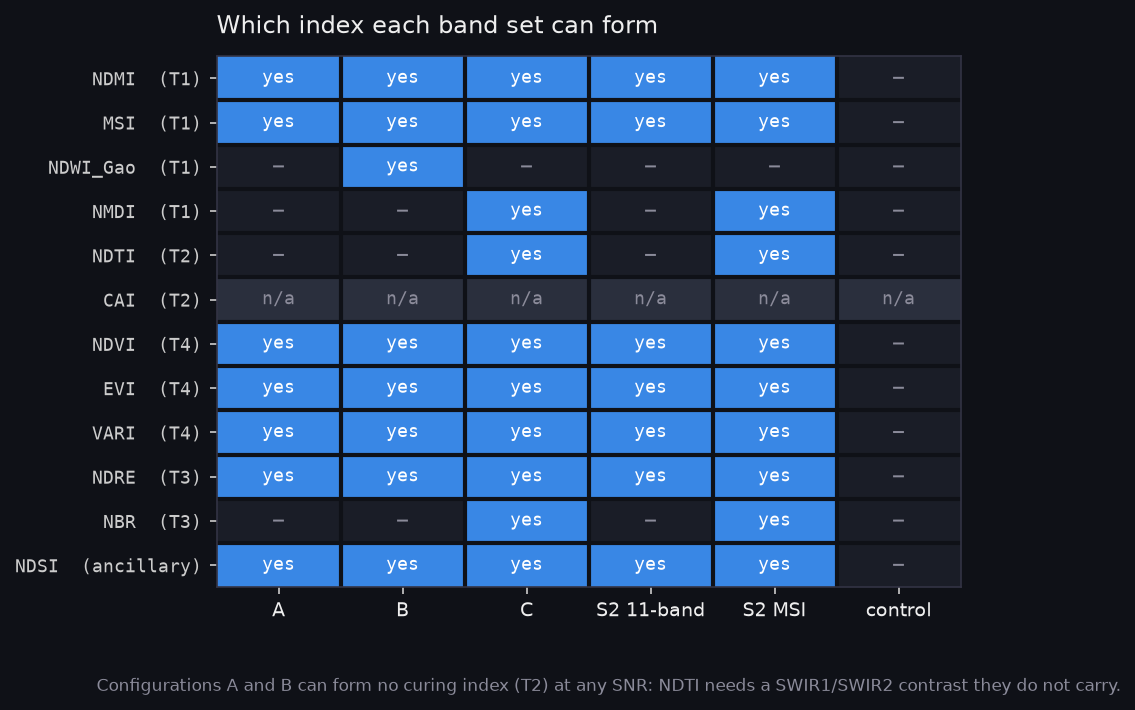
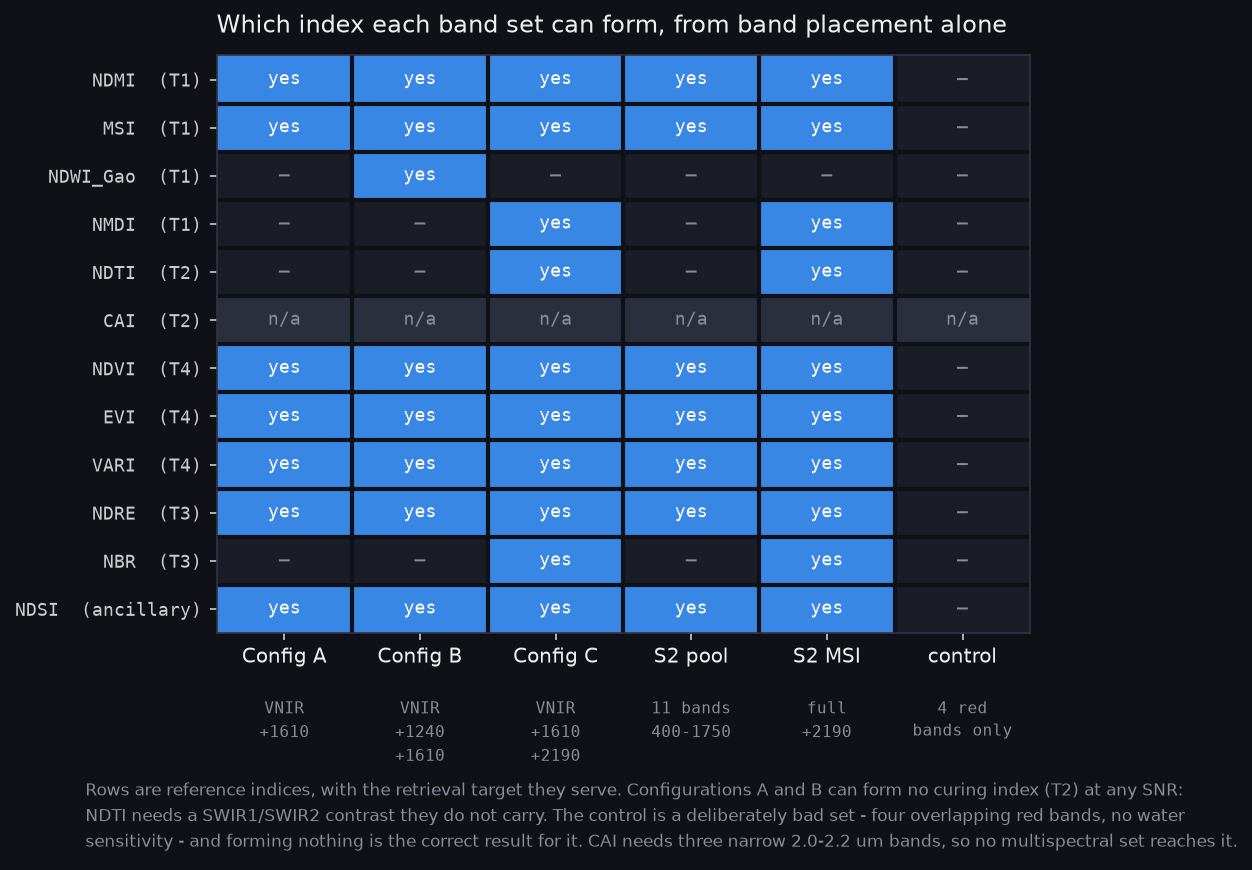
Make two figures legible without the surrounding text
The feasibility columns were bare letters -- "A", "B", "C", "control" -- which
carry no information about the thing the figure is actually comparing. Each
column now names the set AND its SWIR content, since that is the only axis the
three SAFARI configurations differ on: A is VNIR+1610, B adds 1240, C swaps to
1610+2190. The caption also says what the control IS, because "control forms
nothing" reads as a broken row rather than the correct result for a
deliberately bad set of four overlapping red bands.

The cut-points figure showed two dumbbells against an unlabelled axis and
assumed the reader already knew why two thresholds existed. Rewritten to show
the actual question: the derivation emits a CONTINUOUS percent conifer, the
published layer reports DISCRETE classes, and comparing them means cutting the
continuum into deciduous/mixedwood/conifer -- which takes two boundaries. The
zones are now drawn and labelled in place, the two rows are annotated with what
each is, and arrows mark that both cuts move left because the derivation reads
more conifer than the layer and the boundaries drop to compensate.

It also states what the figure does NOT mean: the thresholds affect reporting
only, since the model consumes continuous percent conifer.

Changed region(s): [[0.0, 0.0, 0.9868, 0.9915], [0.8018, 0.062, 0.8326, 0.093]]

diff --git a/scripts/make_result_figures.py b/scripts/make_result_figures.py
@@ -184,9 +184,19 @@ def fig_band_pool():
 
 SETS = ["config_a", "config_b", "config_c",
         "sentinel2_11band_candidates", "sentinel2_msi", "negative_control"]
-SHORT = {"config_a": "A", "config_b": "B", "config_c": "C",
-         "sentinel2_11band_candidates": "S2 11-band",
-         "sentinel2_msi": "S2 MSI", "negative_control": "control"}
+
+# "A", "B", "C" mean nothing without the bands behind them, and the whole
+# point of the figure is which SWIR content a configuration carries. Each
+# column header therefore names the set AND its SWIR bands, since that is the
+# only axis the three SAFARI configurations differ on.
+COLHEAD = {
+    "config_a":                    ("Config A", "VNIR|+1610"),
+    "config_b":                    ("Config B", "VNIR|+1240|+1610"),
+    "config_c":                    ("Config C", "VNIR|+1610|+2190"),
+    "sentinel2_11band_candidates": ("S2 pool", "11 bands|400-1750"),
+    "sentinel2_msi":               ("S2 MSI", "full|+2190"),
+    "negative_control":            ("control", "4 red|bands only"),
+}
 
 
 def fig_feasibility():
@@ -205,8 +215,8 @@ def fig_feasibility():
             res = resolve_index(idx, band_sets[key])
             grid[r, c] = 1.0 if res.feasible else (0.5 if res.hyperspectral_only else 0.0)
 
-    fig, ax = plt.subplots(figsize=(6.4, 4.6), facecolor=FIG_BG)
-    _axes(ax, "Which index each band set can form")
+    fig, ax = plt.subplots(figsize=(7.0, 5.0), facecolor=FIG_BG)
+    _axes(ax, "Which index each band set can form, from band placement alone")
     ax.grid(False)
 
     from matplotlib.colors import ListedColormap
@@ -222,7 +232,15 @@ def fig_feasibility():
                     family="monospace")
 
     ax.set_xticks(range(len(SETS)))
-    ax.set_xticklabels([SHORT[s] for s in SETS], color=INK_BRIGHT, fontsize=9)
+    ax.set_xticklabels([COLHEAD[s][0] for s in SETS], color=INK_BRIGHT, fontsize=9.5)
+    # Band content BELOW the tick labels. Drawn in data-x / axes-y with a
+    # pixel offset: in data coordinates it landed on top of the tick label.
+    for c, key in enumerate(SETS):
+        ax.annotate(chr(10).join(COLHEAD[key][1].split("|")),
+                    xy=(c, 0), xycoords=("data", "axes fraction"),
+                    xytext=(0, -30), textcoords="offset points",
+                    ha="center", va="top", color=MUTED, fontsize=7.6,
+                    family="monospace", linespacing=1.5, annotation_clip=False)
     ax.set_yticks(range(len(names)))
     ax.set_yticklabels([f"{n}  ({i.target})" for n, i in zip(names, cat.indices)],
                        color=INK, fontsize=8.5, family="monospace")
@@ -231,10 +249,14 @@ def fig_feasibility():
     ax.grid(which="minor", color=FIG_BG, lw=2)
     ax.tick_params(which="minor", length=0)
 
-    fig.text(0.0, -0.04,
-             "Configurations A and B can form no curing index (T2) at any SNR: NDTI needs a "
-             "SWIR1/SWIR2 contrast they do not carry.",
-             color=MUTED, fontsize=8.2, ha="left")
+    fig.text(0.0, -0.175, chr(10).join([
+        "Rows are reference indices, with the retrieval target they serve. "
+        "Configurations A and B can form no curing index (T2) at any SNR:",
+        "NDTI needs a SWIR1/SWIR2 contrast they do not carry. The control is a "
+        "deliberately bad set - four overlapping red bands, no water",
+        "sensitivity - and forming nothing is the correct result for it. "
+        "CAI needs three narrow 2.0-2.2 um bands, so no multispectral set reaches it.",
+    ]), color=MUTED, fontsize=8.2, ha="left", linespacing=1.5)
     return _save(fig, "index_feasibility.png")
 
 
@@ -243,36 +265,67 @@ def fig_feasibility():
 # ──────────────────────────────────────────────────────────────────────────
 
 def fig_cut_points():
-    plt = _plt()
-    fig, ax = plt.subplots(figsize=(7.0, 2.3), facecolor=FIG_BG)
-    _axes(ax, "Percent-conifer cut points, judgement vs fitted",
-          xlabel="percent conifer")
+    """Why two thresholds exist at all, and where they land.
 
-    rows = [("judgement", 0.20, 0.80, MUTED, None),
-            ("fitted", 0.10, 0.45, S1, "67.3% three-class accuracy")]
-    for i, (lab, lo, hi, col, acc) in enumerate(rows):
+    The derivation produces a CONTINUOUS percent conifer; the published layer
+    reports DISCRETE classes. Comparing them means cutting the continuum into
+    three classes, which needs two boundaries -- and those boundaries were a
+    guess until they were fitted.
+    """
+    plt = _plt()
+    fig, ax = plt.subplots(figsize=(7.6, 3.2), facecolor=FIG_BG)
+    _axes(ax, "Turning continuous percent conifer into the layer's three classes",
+          xlabel="percent conifer  (0 = all broadleaf,  1 = all conifer)")
+
+    ZONE = [("deciduous", S2), ("mixedwood", WARN), ("conifer", S3)]
+    rows = [
+        ("judgement", 0.20, 0.80, "guessed when the derivation was written"),
+        ("fitted",    0.10, 0.45, "best match to the layer — 67.3% correct"),
+    ]
+
+    for i, (lab, lo, hi, note) in enumerate(rows):
         y = len(rows) - 1 - i
-        ax.plot([0, 1], [y, y], color=SPINE, lw=7, solid_capstyle="round", zorder=1)
-        ax.plot([lo, hi], [y, y], color=col, lw=7, solid_capstyle="round",
-                alpha=0.42, zorder=2)
-        ax.scatter([lo, hi], [y, y], s=74, color=col, zorder=3,
-                   edgecolors=AX_BG, linewidths=1.6)
+        for (zname, zcol), (a, b) in zip(ZONE, [(0, lo), (lo, hi), (hi, 1)]):
+            ax.barh(y, b - a, left=a, height=0.42, color=zcol, alpha=0.78,
+                    edgecolor=AX_BG, linewidth=2, zorder=2)
+            if b - a > 0.13:                       # only label a zone with room
+                ax.text((a + b) / 2, y, zname, ha="center", va="center",
+                        color="#0f1117", fontsize=8.8, fontweight="bold", zorder=3)
         for v in (lo, hi):
-            ax.text(v, y + 0.22, f"{v:.2f}", color=INK, fontsize=8.5,
-                    ha="center", family="monospace")
-        if acc:
-            ax.text(1.03, y, acc, color=INK, fontsize=8.5, va="center")
+            ax.plot([v, v], [y - 0.30, y + 0.30], color=INK_BRIGHT, lw=1.6, zorder=4)
+            ax.text(v, y + 0.345, f"{v:.2f}", ha="center", va="bottom",
+                    color=INK_BRIGHT, fontsize=9, family="monospace", zorder=4)
+        ax.text(1.015, y, note, va="center", color=INK, fontsize=8.4)
+
+    # Both boundaries moved LEFT, which is the finding: the derivation reads
+    # systematically more conifer than the layer, so the cuts must drop to
+    # compensate.
+    for a, b in [(0.20, 0.10), (0.80, 0.45)]:
+        ax.annotate("", xy=(b, 0.42), xytext=(a, 0.58),
+                    arrowprops=dict(arrowstyle="->", color=MUTED, lw=1.3,
+                                    shrinkA=0, shrinkB=0))
+    ax.text(0.625, 0.655, "both cuts move left", color=MUTED, fontsize=8.2,
+            ha="center", va="bottom", style="italic")
 
     ax.set_yticks(range(len(rows)))
-    ax.set_yticklabels([r[0] for r in reversed(rows)], color=INK_BRIGHT, fontsize=10)
-    ax.set_xlim(-0.02, 1.02)
-    ax.set_ylim(-0.55, len(rows) - 0.3)
+    ax.set_yticklabels([r[0] for r in reversed(rows)], color=INK_BRIGHT, fontsize=10.5)
+    ax.set_xlim(0, 1.0)
+    ax.set_ylim(-0.52, len(rows) - 0.30)
     ax.grid(axis="y", visible=False)
 
-    fig.text(0.0, -0.12,
-             "Fitted on 29 distinct unburned sites. The model input is continuous percent conifer, "
-             "so no cut point enters the retrieval.",
-             color=MUTED, fontsize=8.2, ha="left")
+    fig.text(0.0, -0.42, chr(10).join([
+        "The derivation outputs a continuous percent conifer; the published CFFDRS layer "
+        "reports discrete classes. Comparing the two means cutting",
+        "the continuum into deciduous / mixedwood / conifer, which takes two boundaries. "
+        "Those were a judgement call until they were fitted on 29",
+        "distinct unburned sites. Both moved sharply left, because the derivation reads "
+        "more conifer than the layer (bias +0.098) and the cuts",
+        "have to drop to compensate. Even at the best pair, only 67.3% of pixels land in "
+        "the layer's class.",
+        "",
+        "This affects REPORTING only. The model consumes continuous percent conifer, so "
+        "neither threshold enters the retrieval.",
+    ]), color=MUTED, fontsize=8.2, ha="left", linespacing=1.55)
     return _save(fig, "cut_points.png")
 
 
